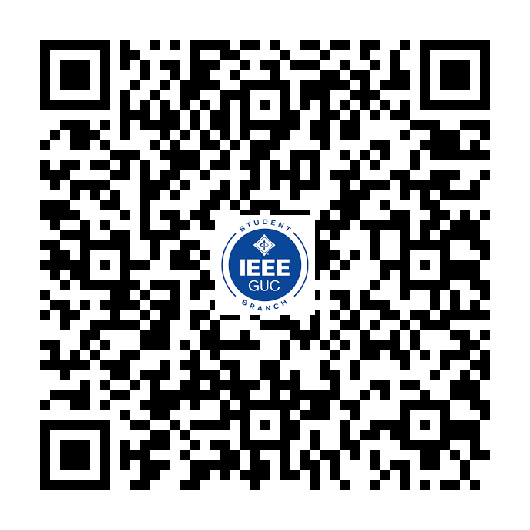
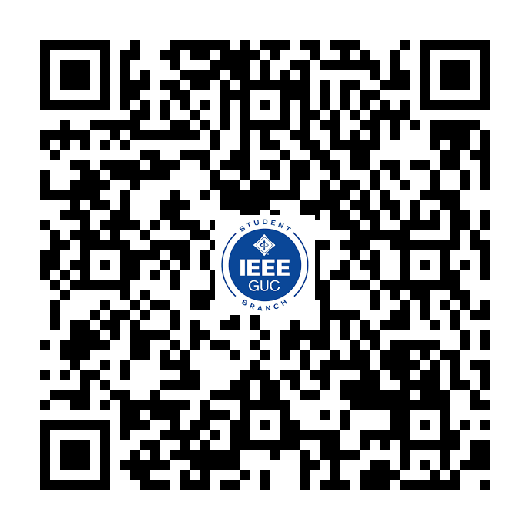
Added Hyperlinks feature

Changed region(s): [[0.0604, 0.0604, 0.9358, 0.9358]]

diff --git a/automation.py b/automation.py
@@ -12,96 +12,105 @@ os.chdir(dir_path)
 QRCode_folder_path = os.path.abspath('QR Code Images')
 Logo_path = 'logo.png'
 
+class QR_Generator:
 
-# Adds header and create id & QRCode coulmns
-def header_with_id(df):
-    df.columns = ['name', 'email']
+    def __init__(self, file_name):
+        self.df = pd.read_excel(file_name + '.xlsx', header=None, index_col=False)
 
-    df['id'] = range(1, len(df) + 1)
-    df['QRCode'] = None
+        self.header_with_id()
 
-def retrieve_info(df):
-    data = []
-    for index, row in df.iterrows():
-        data_row = {}
-        for col_name, value in row.items():
-            data_row[col_name] = value
-        data.append(data_row)
+        try:
+            os.mkdir('QR Code Images')
+        except:
+            pass
+        
+        QRcode_logo = self.QRCode_logo()
+        self.generate_qrcode(QRcode_logo)
 
-    return data
+        self.df.to_excel(file_name + '_modified.xlsx', index=False)
 
-def QRCode_logo():
-    logo = Image.open(Logo_path)
+    # Adds header and create id & QRCode coulmns
+    def header_with_id(self):
+        self.df.columns = ['Name', 'Email']
 
-    basewidth = 100
-    # adjust image size
-    wpercent = (basewidth/float(logo.size[0]))
-    hsize = int((float(logo.size[1])*float(wpercent)))
-    logo = logo.resize((basewidth, hsize), Image.Resampling.LANCZOS)
+        self.df['id'] = range(1, len(self.df) + 1)
+        self.df['QR_Link'] = None
+        
+        new_cols = ["id", "Name", "Email", "QR_Link"]
+        self.df = self.df.reindex(columns=new_cols)
+    
+    def QRCode_logo(self):
+        logo = Image.open(Logo_path)
 
-    return logo
+        basewidth = 100
+        # adjust image size
+        wpercent = (basewidth/float(logo.size[0]))
+        hsize = int((float(logo.size[1])*float(wpercent)))
+        logo = logo.resize((basewidth, hsize), Image.Resampling.LANCZOS)
 
-def add_QRCode_text(data_row, QRcode):
-    text = yaml.dump(data_row, sort_keys= False)
-    QRcode.add_data(text)
+        return logo
 
-def make_QRCode(QRcode):
-    QRcode.make()
-    QR_img = QRcode.make_image().convert('RGB')
+    def generate_qrcode(self, QRcode_logo):
+        data = self.retrieve_info()
 
-    return QR_img
+        qr_paths =[self.make_QR_images(data_row, QRcode_logo) for data_row in data]
 
-def add_QRCode_logo(QRCode_logo, QR_img):
-    pos = ((QR_img.size[0] - QRCode_logo.size[0]) // 2,
-       (QR_img.size[1] - QRCode_logo.size[1]) // 2)
-    QR_img.paste(QRCode_logo, pos)
+        self.df['QR_Link'] = qr_paths
 
-def save_QRCode(data_row, QR_img):
-    id = data_row['id']
-    qrimg_path = os.path.join(QRCode_folder_path, str(id)) + '.png'
-    QR_img.save(qrimg_path)
+    def retrieve_info(self):
+        data = []
+        for index, row in self.df.iterrows():
+            data_row = {}
+            for col_name, value in row.items():
+                data_row[col_name] = value
+            data.append(data_row)
 
-    return qrimg_path
+        return data
 
-# Creates a unique QR Code for each attendee and return path
-def make_QR_images(data_row, QRCode_logo):
+    # Creates a unique QR Code for each attendee and return path
+    def make_QR_images(self, data_row, QRCode_logo):
 
-    QRcode = qrcode.QRCode(
-        error_correction=qrcode.constants.ERROR_CORRECT_H)
+        QRcode = qrcode.QRCode(
+            error_correction=qrcode.constants.ERROR_CORRECT_H)
 
-    add_QRCode_text(data_row, QRcode)
+        self.add_QRCode_text(data_row, QRcode)
 
-    QR_img = make_QRCode(QRcode)
+        QR_img = self.make_QRCode(QRcode)
 
-    add_QRCode_logo(QRCode_logo, QR_img)
+        self.add_QRCode_logo(QRCode_logo, QR_img)
 
-    qrimg_path = save_QRCode(data_row, QR_img)
+        qrimg_path = self.save_QRCode(data_row, QR_img)
 
-    return qrimg_path
+        return qrimg_path
 
-def generate_qrcode(df, QRcode_logo):
-    data = retrieve_info(df)
+    def add_QRCode_text(self, data_row, QRcode):
+        text = yaml.dump(data_row, sort_keys= False)
+        QRcode.add_data(text)
 
-    qr_paths =[make_QR_images(data_row, QRcode_logo) for data_row in data]
+    def make_QRCode(self, QRcode):
+        QRcode.make()
+        QR_img = QRcode.make_image().convert('RGB')
 
-    df['QRCode'] = qr_paths
+        return QR_img
 
+    def add_QRCode_logo(self, QRCode_logo, QR_img):
+        pos = ((QR_img.size[0] - QRCode_logo.size[0]) // 2,
+        (QR_img.size[1] - QRCode_logo.size[1]) // 2)
+        QR_img.paste(QRCode_logo, pos)
 
+    def save_QRCode(self, data_row, QR_img):
+        id = data_row['id']
+        qrimg_path = os.path.join(QRCode_folder_path, str(id)) + '.png'
+
+        QR_img.save(qrimg_path)
+
+        hyperlink = f'=HYPERLINK("{qrimg_path}", "{id}_QR_Link")'
+        return hyperlink
+
+    
 if __name__ == '__main__':
 
     file_name = input('Enter your excel file name without the extension & Make sure it is in the same directory as the script \n')
-    df = pd.read_excel(file_name + '.xlsx', header=None, index_col=False)
-
-    header_with_id(df)
-
-    try:
-        os.mkdir('QR Code Images')
-    except:
-        pass
-    
-    QRcode_logo = QRCode_logo()
-    generate_qrcode(df, QRcode_logo)
-
-    df.to_excel(file_name + '_modified.xlsx', index=False)
+    QR_Generator(file_name)
 
     print('You have successfully generated QR Codes for every attendee.')
